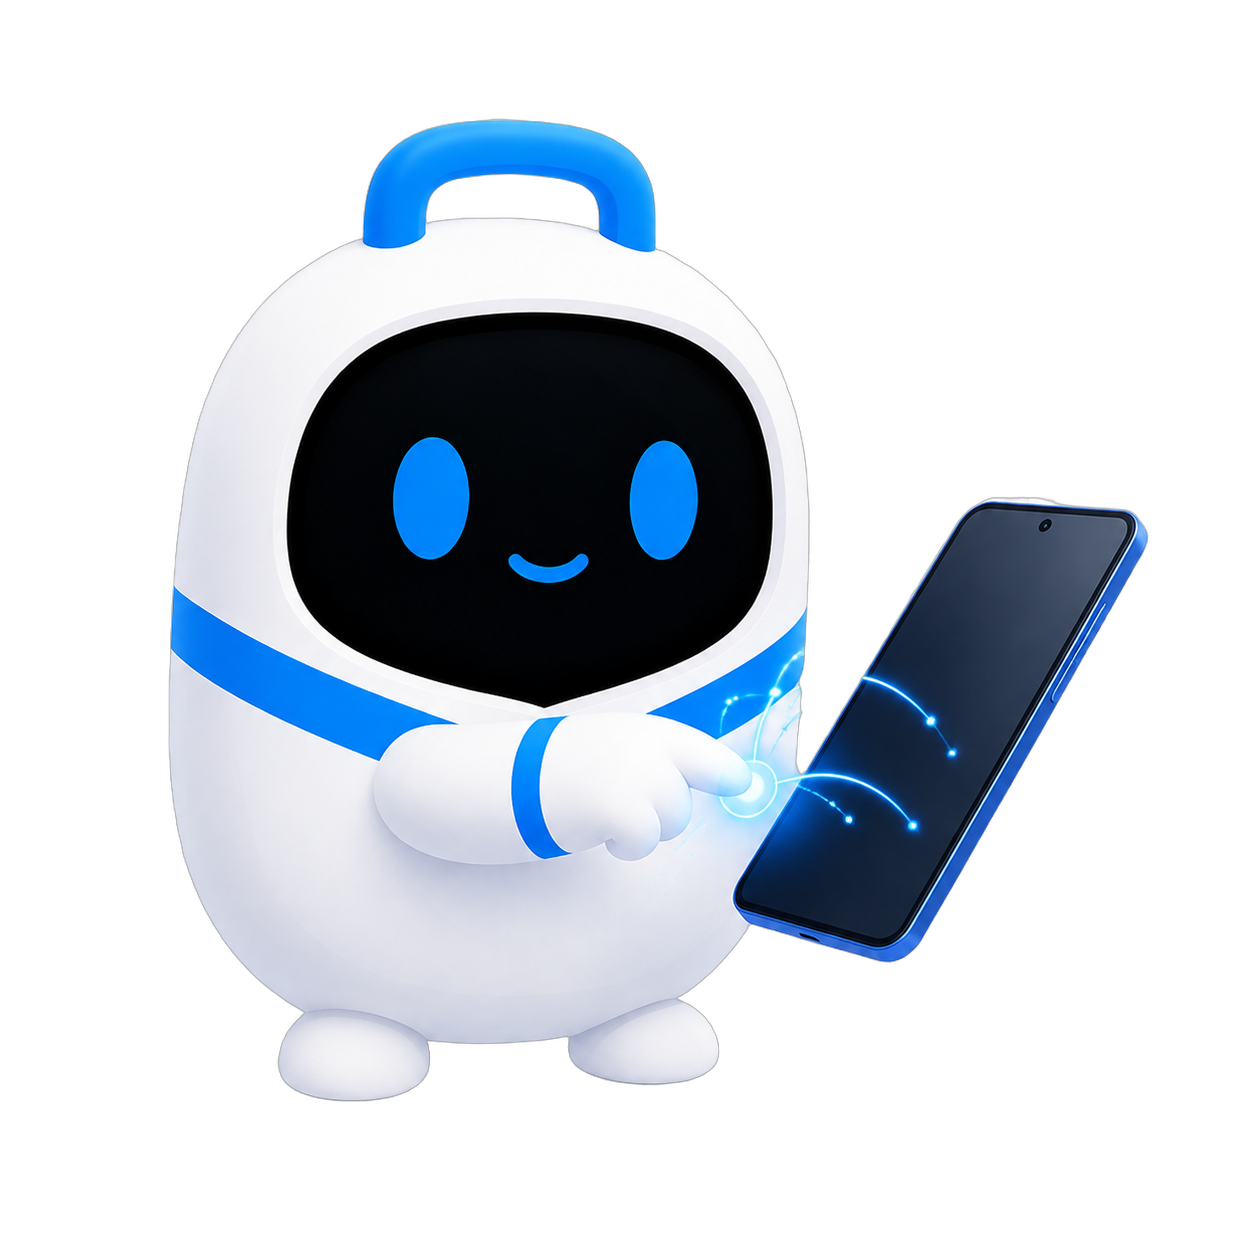
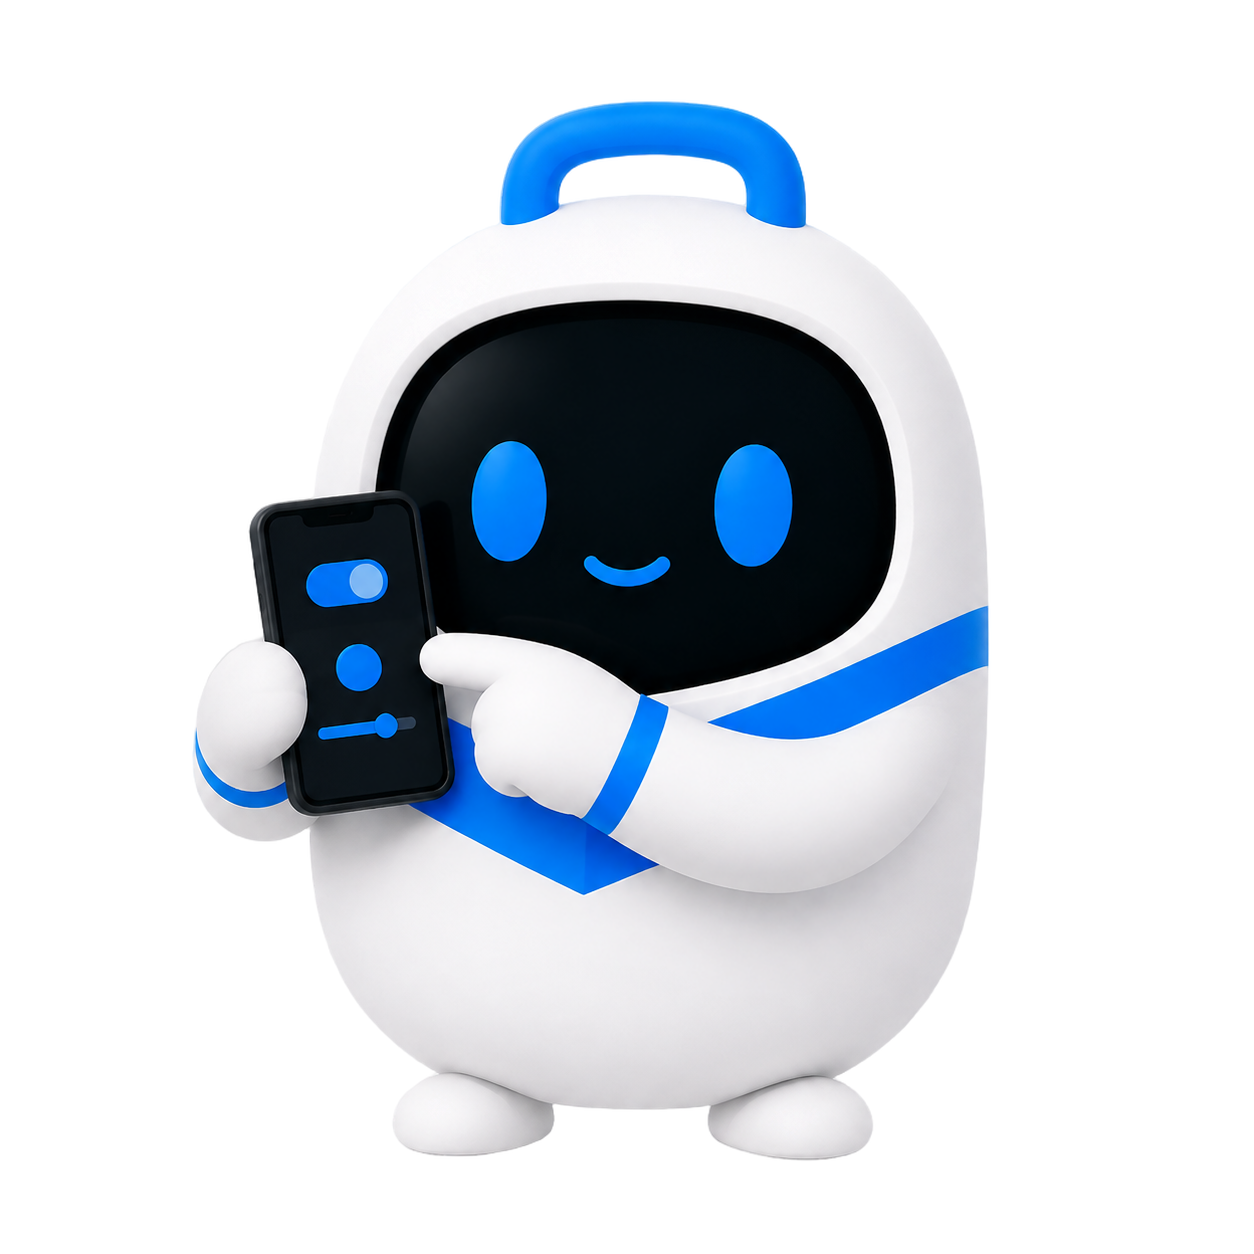
Polish Android onboarding flow

Changed region(s): [[0.1244, 0.0622, 0.933, 0.933]]

diff --git a/android/app/src/main/assets/web/onboarding.css b/android/app/src/main/assets/web/onboarding.css
@@ -21,11 +21,15 @@
 }
 
 .onboarding-asset {
+  --asset-scale: .98;
+  --asset-x: 0px;
+  --asset-y: 0px;
   display: grid;
   height: clamp(240px, 34vh, 340px);
   margin: 18px 0;
   place-content: center;
   position: relative;
+  isolation: isolate;
 }
 
 .onboarding-asset img {
@@ -36,6 +40,235 @@
   max-height: 100%;
   max-width: 100%;
   object-fit: contain;
+  object-position: center;
   position: absolute;
+  transform: translate3d(var(--asset-x), var(--asset-y), 0) scale(var(--asset-scale));
+  transform-origin: center;
+  will-change: opacity, transform;
   width: 100%;
+}
+
+/*
+ * Las ilustraciones tienen lienzos y encuadres diferentes. Estas correcciones
+ * igualan el tamaño perceptual de ATLAS sin modificar los PNG originales.
+ */
+#onboarding-image[src$="01-welcome.png"] { --asset-scale: .90; }
+#onboarding-image[src$="02-agentic-arms.png"] { --asset-scale: .88; }
+#onboarding-image[src$="03-raspberry-pi.png"] { --asset-scale: .94; }
+#onboarding-image[src$="04-help-tasks.png"] { --asset-scale: .88; }
+#onboarding-image[src$="05-app-control.png"] { --asset-scale: .92; }
+#onboarding-image[src$="06-phone-control.png"] { --asset-scale: .86; }
+#onboarding-image[src$="07-reminders.png"] { --asset-scale: 1.04; }
+#onboarding-image[src$="08-phone-calls.png"] { --asset-scale: 1; }
+#onboarding-image[src$="09-file-organizer.png"] { --asset-scale: 1.06; }
+#onboarding-image[src$="10-permissions.png"] { --asset-scale: 1.02; }
+#onboarding-image[src$="11-microphone.png"] { --asset-scale: .97; }
+#onboarding-image[src$="12-notifications.png"] { --asset-scale: 1.04; }
+#onboarding-image[src$="13-bluetooth.png"] { --asset-scale: 1.16; }
+#onboarding-image[src$="14-overlay.png"] { --asset-scale: 1.32; }
+#onboarding-image[src$="15-location.png"] { --asset-scale: 1.04; }
+#onboarding-image[src$="16-camera.png"] { --asset-scale: .96; }
+#onboarding-image[src$="17-contacts.png"] { --asset-scale: .98; }
+#onboarding-image[src$="18-calendar.png"] { --asset-scale: .94; }
+#onboarding-image[src$="19-phone.png"] { --asset-scale: .96; }
+#onboarding-image[src$="20-call-log.png"] { --asset-scale: 1.05; }
+#onboarding-image[src$="21-sms.png"] { --asset-scale: 1.03; }
+#onboarding-image[src$="22-wifi.png"] { --asset-scale: 1.13; }
+#onboarding-image[src$="23-gallery-audio.png"] { --asset-scale: 1.06; }
+#onboarding-image[src$="24-storage.png"] { --asset-scale: 1.09; }
+#onboarding-image[src$="25-activity-sensors.png"] { --asset-scale: 1.16; }
+
+/* Cambiar de nombre de animación en páginas pares fuerza una entrada nueva. */
+.onboarding-copy {
+  --asset-enter: onboarding-asset-in-a;
+  --copy-enter: onboarding-copy-in-a;
+}
+
+.onboarding-copy:has(#onboarding-image[src$="02-agentic-arms.png"]),
+.onboarding-copy:has(#onboarding-image[src$="04-help-tasks.png"]),
+.onboarding-copy:has(#onboarding-image[src$="06-phone-control.png"]),
+.onboarding-copy:has(#onboarding-image[src$="08-phone-calls.png"]),
+.onboarding-copy:has(#onboarding-image[src$="10-permissions.png"]),
+.onboarding-copy:has(#onboarding-image[src$="12-notifications.png"]),
+.onboarding-copy:has(#onboarding-image[src$="14-overlay.png"]),
+.onboarding-copy:has(#onboarding-image[src$="16-camera.png"]),
+.onboarding-copy:has(#onboarding-image[src$="18-calendar.png"]),
+.onboarding-copy:has(#onboarding-image[src$="20-call-log.png"]),
+.onboarding-copy:has(#onboarding-image[src$="22-wifi.png"]),
+.onboarding-copy:has(#onboarding-image[src$="24-storage.png"]) {
+  --asset-enter: onboarding-asset-in-b;
+  --copy-enter: onboarding-copy-in-b;
+}
+
+#onboarding-image {
+  animation-duration: .42s, 5.4s;
+  animation-delay: 0s, .42s;
+  animation-fill-mode: both, both;
+  animation-iteration-count: 1, infinite;
+  animation-name: var(--asset-enter), onboarding-asset-float;
+  animation-timing-function: cubic-bezier(.2, .8, .2, 1), ease-in-out;
+}
+
+#onboarding-kicker,
+.onboarding-heading,
+#onboarding-subtitle,
+#permission-button {
+  animation: var(--copy-enter) .34s cubic-bezier(.2, .8, .2, 1) backwards;
+  will-change: opacity, transform;
+}
+
+.onboarding-heading { animation-delay: .025s; }
+#onboarding-subtitle { animation-delay: .055s; }
+#permission-button { animation-delay: .085s; }
+
+#onboarding:has(#onboarding-next:active) .onboarding-heading,
+#onboarding:has(#onboarding-next:active) #onboarding-subtitle,
+#onboarding:has(#onboarding-back:active) .onboarding-heading,
+#onboarding:has(#onboarding-back:active) #onboarding-subtitle {
+  opacity: .72;
+  transform: translateY(-3px) scale(.995);
+  transition: opacity .1s ease, transform .1s ease;
+}
+
+#permission-button,
+.onboarding-actions #onboarding-next {
+  min-height: 51px;
+  border: 1px solid #65b8ff55;
+  border-radius: 16px;
+  background: linear-gradient(145deg, #48aaff, #1263df 72%);
+  box-shadow:
+    inset 0 1px 0 #ffffffa8,
+    inset 0 -1px 0 #074ba9,
+    0 8px 18px #0877ef35,
+    0 3px 0 #0b4ca8;
+  color: #fff;
+  font-weight: 680;
+  transition: transform .11s ease, box-shadow .11s ease, filter .16s ease;
+}
+
+#permission-button {
+  margin-top: 2px;
+}
+
+#permission-button.granted,
+#permission-button.granted:disabled {
+  border-color: #58d9ad66;
+  background: linear-gradient(145deg, #38cca0, #168c6c 74%);
+  box-shadow:
+    inset 0 1px 0 #ffffff8f,
+    inset 0 -1px 0 #0b674f,
+    0 8px 18px #1db68a2e,
+    0 3px 0 #0a654d;
+  color: #fff;
+  opacity: 1;
+}
+
+.onboarding-actions #onboarding-next {
+  flex: 1;
+}
+
+.onboarding-actions #onboarding-back {
+  flex: 0 0 112px;
+  min-height: 51px;
+  border: 1px solid #9aa9bd24;
+  border-radius: 16px;
+  background: linear-gradient(145deg, #46556a, #293548 74%);
+  box-shadow:
+    inset 0 1px 0 #ffffff2e,
+    inset 0 -1px 0 #151e2d,
+    0 7px 16px #00000032,
+    0 3px 0 #121b2a;
+  color: #f5f7fb;
+  font-weight: 650;
+  transition: transform .11s ease, box-shadow .11s ease, filter .16s ease;
+}
+
+#permission-button:active:not(:disabled),
+.onboarding-actions #onboarding-next:active:not(:disabled),
+.onboarding-actions #onboarding-back:active:not(:disabled) {
+  transform: translateY(3px) scale(.992);
+  filter: brightness(.97);
+}
+
+#permission-button:active:not(:disabled),
+.onboarding-actions #onboarding-next:active:not(:disabled) {
+  box-shadow:
+    inset 0 2px 5px #064ba85c,
+    inset 0 1px 0 #ffffff70,
+    0 3px 8px #0877ef26,
+    0 0 0 #0b4ca8;
+}
+
+#permission-button.granted:active:not(:disabled) {
+  box-shadow:
+    inset 0 2px 5px #07594370,
+    inset 0 1px 0 #ffffff66,
+    0 3px 8px #1db68a24,
+    0 0 0 #0a654d;
+}
+
+.onboarding-actions #onboarding-back:active:not(:disabled) {
+  box-shadow:
+    inset 0 2px 5px #080d1670,
+    inset 0 1px 0 #ffffff1f,
+    0 2px 7px #00000022,
+    0 0 0 #121b2a;
+}
+
+@keyframes onboarding-asset-in-a {
+  from {
+    opacity: 0;
+    transform: translate3d(var(--asset-x), calc(var(--asset-y) + 10px), 0) scale(var(--asset-scale));
+  }
+  to {
+    opacity: 1;
+    transform: translate3d(var(--asset-x), var(--asset-y), 0) scale(var(--asset-scale));
+  }
+}
+
+@keyframes onboarding-asset-in-b {
+  from {
+    opacity: 0;
+    transform: translate3d(var(--asset-x), calc(var(--asset-y) + 10px), 0) scale(var(--asset-scale));
+  }
+  to {
+    opacity: 1;
+    transform: translate3d(var(--asset-x), var(--asset-y), 0) scale(var(--asset-scale));
+  }
+}
+
+@keyframes onboarding-asset-float {
+  0%, 100% {
+    transform: translate3d(var(--asset-x), var(--asset-y), 0) scale(var(--asset-scale));
+  }
+  50% {
+    transform: translate3d(var(--asset-x), calc(var(--asset-y) - 5px), 0) scale(var(--asset-scale));
+  }
+}
+
+@keyframes onboarding-copy-in-a {
+  from { opacity: 0; transform: translateY(6px); }
+  to { opacity: 1; transform: none; }
+}
+
+@keyframes onboarding-copy-in-b {
+  from { opacity: 0; transform: translateY(6px); }
+  to { opacity: 1; transform: none; }
+}
+
+@media (prefers-reduced-motion: reduce) {
+  #onboarding-image,
+  #onboarding-kicker,
+  .onboarding-heading,
+  #onboarding-subtitle,
+  #permission-button {
+    animation: none !important;
+    transition: none !important;
+    will-change: auto;
+  }
+
+  #permission-button,
+  .onboarding-actions button {
+    transition: none !important;
+  }
 }

diff --git a/android/app/src/main/assets/web/app.js b/android/app/src/main/assets/web/app.js
@@ -9,7 +9,7 @@ const paths={mic:'M8 6a4 4 0 0 1 8 0v6a4 4 0 0 1-8 0Zm-3 5v1a7 7 0 0 0 14 0v-1M1
 function icon(name){if(name==='spark'||name==='settings'){const s=document.createElement('span');s.className='glyph '+(name==='spark'?'glyph-atlas':'glyph-gear');return s;}const svg=document.createElementNS('http://www.w3.org/2000/svg','svg');svg.setAttribute('viewBox','0 0 24 24');const p=document.createElementNS(svg.namespaceURI,'path');p.setAttribute('d',paths[name]||paths.bolt);svg.append(p);return svg;}
 $$('[data-icon]').forEach(el=>el.append(icon(el.dataset.icon)));
 function setConnected(ok){$('#connection').classList.toggle('online',!!ok);}
-function renderConfig(c){config=c;$('#pair-card').hidden=!!c.paired;$('#device-card').hidden=!c.paired;$('#device-name').textContent=lastStatus?.model||c.name||'Raspberry Pi';$('#pair-state').textContent=c.linkState==='online'?'Conectada':c.linkState==='relay'?'Relay conectado · A1 no disponible':c.linkDetail||'Última conexión pendiente';$('#battery-access').hidden=!c.paired||!!c.batteryUnrestricted;setConnected(c.linkState==='online');for(const k of ['lock','danger'])$('#'+k).checked=!!c[k];if(c.version){$('#installed-version').textContent='v'+String(c.version).replace(/^v/,'');$('.about .version').textContent='v'+String(c.version).replace(/^v/,'');}if(!c.onboarding)openOnboarding();}
+function renderConfig(c){config=c;$('#pair-card').hidden=!!c.paired;$('#device-card').hidden=!c.paired;$('#device-name').textContent=lastStatus?.model||c.name||'Raspberry Pi';$('#pair-state').textContent=c.linkState==='online'?'Conectada':c.linkState==='relay'?'Relay conectado · A1 no disponible':c.linkDetail||'Última conexión pendiente';$('#battery-access').hidden=!c.paired||!!c.batteryUnrestricted;setConnected(c.linkState==='online');for(const k of ['lock','danger'])$('#'+k).checked=!!c[k];if(c.version){$('#installed-version').textContent='v'+String(c.version).replace(/^v/,'');$('.about .version').textContent='v'+String(c.version).replace(/^v/,'');}if(!c.onboarding&&$('#onboarding').hidden)openOnboarding();}
 function showTab(name){$$('.page').forEach(p=>p.classList.toggle('active',p.id==='tab-'+name));$$('#tabs button').forEach(b=>b.classList.toggle('active',b.dataset.tab===name));if(name==='status')safe(refreshStatus)();if(name==='terminal')setTimeout(()=>fit?.fit(),50);window.scrollTo(0,0);}
 $$('#tabs button').forEach(b=>b.onclick=()=>showTab(b.dataset.tab));
 function bubble(text,role='assistant'){const area=$('#messages');$('.welcome')?.remove();const el=document.createElement('div');el.className='message '+role;el.textContent=text;area.append(el);area.scrollTop=area.scrollHeight;return el;}
@@ -25,7 +25,7 @@ const intro=[
   ['Así, puedes pedirle que te ponga recordatorios…','07-reminders.png'],
   ['…que conteste llamadas telefónicas…','08-phone-calls.png'],
   ['…o que te ordene los archivos.','09-file-organizer.png'],
-  ['Pero para que pueda hacer todo eso, necesita ciertos permisos. Solo unos pocos son obligatorios, pero recomendamos encarecidamente dar acceso completo para disfrutar de la mejor experiencia posible.','10-permissions.png']
+  ['Para hacer todo esto, ATLAS necesita algunos permisos. Solo unos pocos son obligatorios, pero recomendamos permitirlos todos.','10-permissions.png']
 ];
 const permissionPages=[
   ['microphone','MICRÓFONO','El permiso principal para poder interactuar con ATLAS por voz.',true,'','11-microphone.png'],
@@ -47,7 +47,32 @@ const permissionPages=[
 const onboarding=[...intro.map(([text,asset],i)=>({text,asset:`onboarding/${asset}`,permissionIntro:i===intro.length-1})),...permissionPages.map(([kind,title,text,required,tag,asset])=>({kind,title,text,required,tag,asset:`onboarding/${asset}`}))];let onboardIndex=0,allowingAll=false;
 function openOnboarding(){onboardIndex=0;$('#onboarding').hidden=false;renderOnboarding();}
 async function permissionGranted(kind){return (await native('permissions.status',{kind})).granted;}
-function renderOnboarding(){const p=onboarding[onboardIndex],permission=!!p.kind,image=$('#onboarding-image');$('#onboarding-kicker').textContent=permission?'PERMISOS':'';$('#onboarding-title').textContent=permission?p.title:p.text;$('#onboarding-subtitle').textContent=permission?p.text:'';image.src=p.asset;image.alt=permission?`ATLAS y el permiso ${p.title.toLowerCase()}`:'Ilustración de ATLAS';const next=onboarding[onboardIndex+1];if(next?.asset)new Image().src=next.asset;$('#permission-button').hidden=!permission;$('#permission-button').textContent='Permitir '+(permission?p.title.toLowerCase():'');$('#allow-all').hidden=!p.permissionIntro;$('#new-tag').hidden=!p.tag;$('#onboarding-back').disabled=onboardIndex===0;$('#onboarding-next').textContent=permission&&!p.required?'Omitir y siguiente':'Siguiente';if(permission)permissionGranted(p.kind).then(ok=>{if(onboarding[onboardIndex]===p){$('#permission-button').textContent=ok?'Permitido ✓':'Permitir '+p.title.toLowerCase();$('#onboarding-next').disabled=p.required&&!ok;}}).catch(()=>{});else $('#onboarding-next').disabled=false;}
+function renderOnboarding(){
+  const p=onboarding[onboardIndex],permission=!!p.kind,image=$('#onboarding-image'),permissionButton=$('#permission-button');
+  $('#onboarding-kicker').textContent=permission?'PERMISOS':'';
+  $('#onboarding-title').textContent=permission?p.title:p.text;
+  $('#onboarding-subtitle').textContent=permission?p.text:'';
+  image.src=p.asset;
+  image.alt=permission?`ATLAS y el permiso ${p.title.toLowerCase()}`:'Ilustración de ATLAS';
+  const next=onboarding[onboardIndex+1];
+  if(next?.asset)new Image().src=next.asset;
+  permissionButton.hidden=!permission;
+  permissionButton.disabled=false;
+  permissionButton.classList.remove('granted');
+  permissionButton.textContent='Permitir '+(permission?p.title.toLowerCase():'');
+  $('#allow-all').hidden=!p.permissionIntro;
+  $('#new-tag').hidden=!p.tag;
+  $('#onboarding-back').disabled=onboardIndex===0;
+  $('#onboarding-next').textContent=permission&&!p.required?'Omitir y siguiente':'Siguiente';
+  if(permission)permissionGranted(p.kind).then(ok=>{
+    if(onboarding[onboardIndex]!==p)return;
+    permissionButton.textContent=ok?'Permitido':'Permitir '+p.title.toLowerCase();
+    permissionButton.classList.toggle('granted',ok);
+    permissionButton.disabled=ok;
+    $('#onboarding-next').disabled=p.required&&!ok;
+  }).catch(()=>{});
+  else $('#onboarding-next').disabled=false;
+}
 async function requestCurrent(){const p=onboarding[onboardIndex];if(!p.kind)return true;const r=await native('permissions.request',{kind:p.kind});const ok=r.granted||await permissionGranted(p.kind);renderOnboarding();return ok;}
 async function advance(){const p=onboarding[onboardIndex];if(p.kind&&p.required&&!(await permissionGranted(p.kind))){toast('Este permiso es necesario para continuar');return;}if(onboardIndex<onboarding.length-1){onboardIndex++;renderOnboarding();return;}renderConfig(await native('onboarding.finish'));$('#onboarding').hidden=true;}
 $('#permission-button').onclick=safe(requestCurrent);$('#onboarding-next').onclick=safe(advance);$('#onboarding-back').onclick=()=>{if(onboardIndex>0){onboardIndex--;renderOnboarding();}};

diff --git a/docs/ANDROID-0.1.11.md b/docs/ANDROID-0.1.11.md
@@ -1,0 +1,9 @@
+# ATLAS Android 0.1.11-preview
+
+Onboarding interaction and visual-polish release.
+
+- Keeps the current tutorial page when Android returns from a permission dialog instead of restarting at “Bienvenido a ATLAS”.
+- Shows the granted-permission button in green with the label **Permitido**, without a check mark.
+- Adds restrained motion and tactile-looking 3D controls while preserving the ATLAS dark interface.
+- Normalizes the apparent scale of the onboarding illustrations for smoother page-to-page transitions.
+- Renews illustrations `06-phone-control.png` and `18-calendar.png` to improve clarity and consistency.

diff --git a/android/README.md b/android/README.md
@@ -1,4 +1,4 @@
-# ATLAS Android · 0.1.10 preview
+# ATLAS Android · 0.1.11 preview
 
 Android 11+ companion for an owner-controlled ATLAS A1. Install the APK from
 [GitHub Releases](https://github.com/samilososami/ATLAS/releases). This is a
